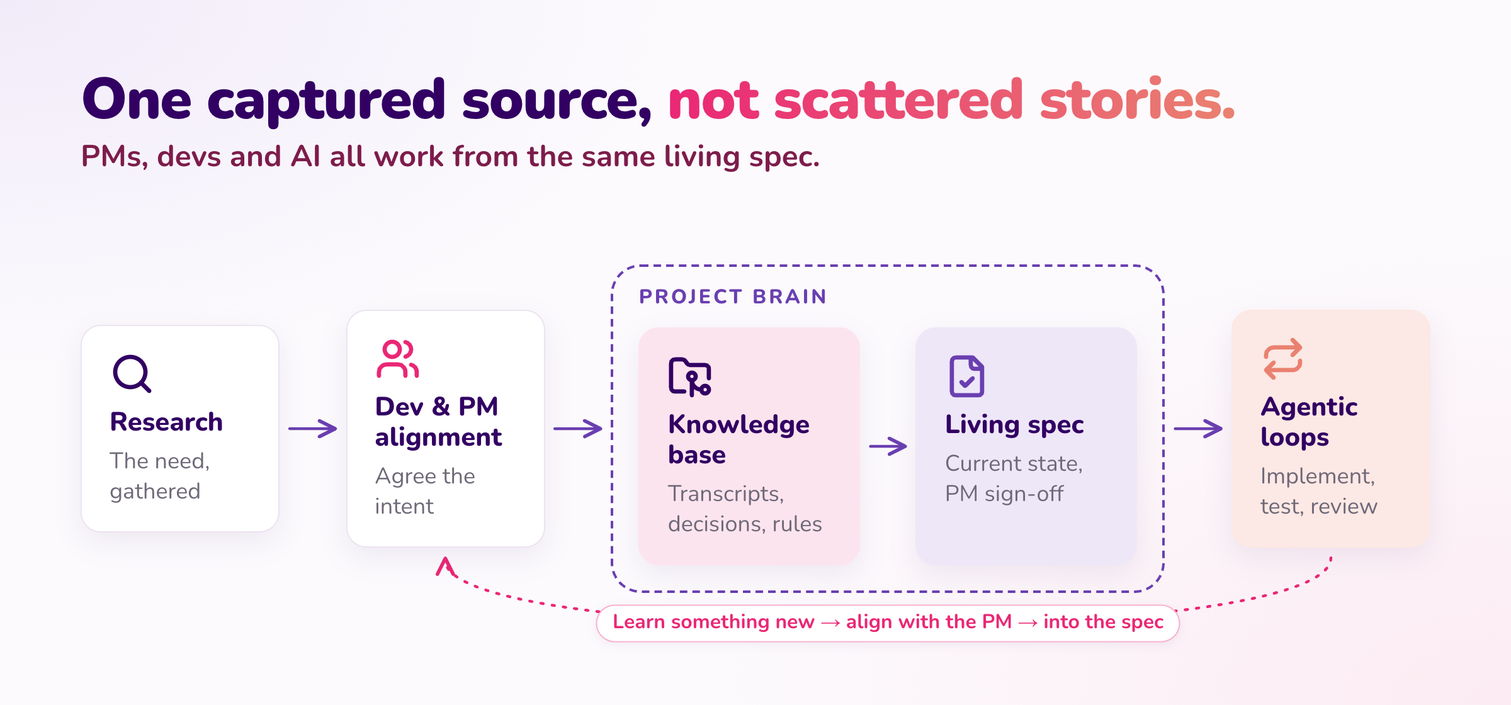
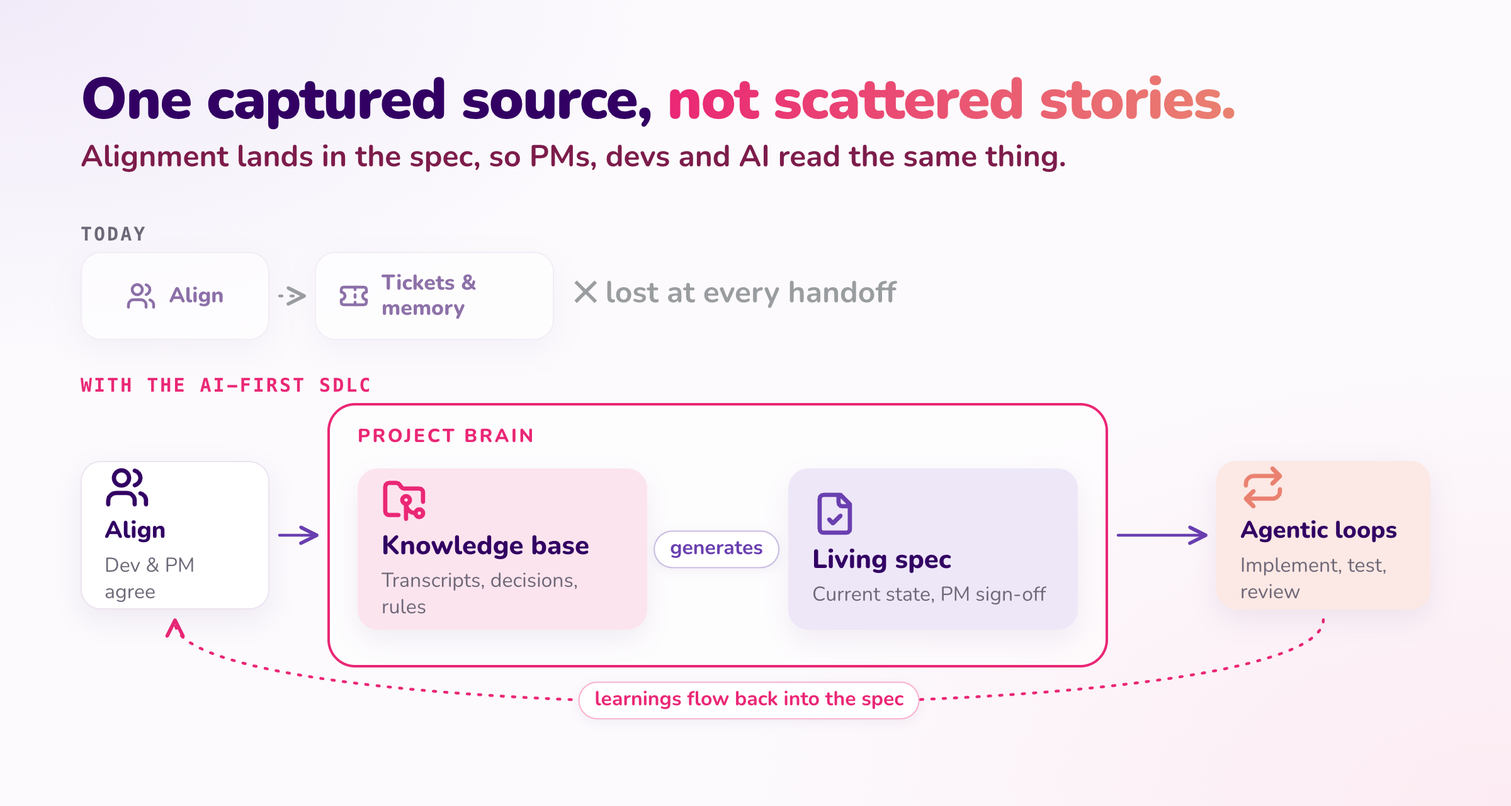
feat: sharper AI-First SDLC post and calmer selected work
Open the post with the DevTalks Cluj talk, the Fortune 500 workshops and
Tecknoworks adoption (8 of 12 teams); rename 'development' to
implementation; add current/future-state, handoff-chain and three-pillars
diagrams, and rework the captured-source and day-to-day loop diagrams;
use 'AI-First SDLC' throughout. Selected work cards drop the big numbers
for a kind label and one-line summary.

diff --git a/image-src/ai-first-sdlc/ai-sdlc-flow.html b/image-src/ai-first-sdlc/ai-sdlc-flow.html
@@ -1,22 +1,32 @@
 <!doctype html><html><head><meta charset="utf-8"><link rel="stylesheet" href="../../scripts/images/theme.css"><script src="https://cdn.jsdelivr.net/npm/lucide@0.460.0/dist/umd/lucide.min.js"></script><script src="../../scripts/images/connect.js"></script><style>
-.flow{position:absolute;left:64px;right:64px;top:210px;display:flex;align-items:center;justify-content:space-between}
-.card{display:flex;flex-direction:column;gap:8px}
-.step{width:158px}
-.brain{position:relative;padding:48px 20px 20px;display:flex;gap:44px;border:2px dashed var(--info);background:transparent}
-.brain .tag{position:absolute;top:14px;left:20px;font-size:16px;font-weight:800;letter-spacing:.12em;text-transform:uppercase;color:var(--info)}
-.brain .card{width:176px}
-</style></head><body data-size="1200x560"><div class="frame">
+.lane{position:absolute;left:64px;right:64px;display:flex;align-items:center;gap:0}
+.tag{position:absolute;left:64px;font-family:ui-monospace,Menlo,monospace;font-size:15px;font-weight:700;letter-spacing:.1em;text-transform:uppercase}
+.st{width:170px;height:118px;display:flex;flex-direction:column;justify-content:center;gap:6px;padding:16px 18px}
+.st .label{font-size:19px}
+.st .note{font-size:16px}
+.muted{opacity:.55}
+.brain{position:absolute;left:356px;top:296px;width:560px;height:210px;border:2px solid var(--accent);border-radius:22px;background:rgba(255,255,255,.55)}
+.brain .bt{position:absolute;top:14px;left:22px;font-size:15px;font-weight:800;letter-spacing:.12em;text-transform:uppercase;color:var(--accent)}
+.k{position:absolute;top:58px;width:230px;height:128px;display:flex;flex-direction:column;justify-content:center;gap:6px;padding:16px 18px}
+.k .label{font-size:21px}
+.k .note{font-size:16px}
+.x{position:absolute;font-size:24px;color:var(--gray);font-weight:700}
+</style></head><body data-size="1200x640"><div class="frame">
 <div class="title">One captured source, <span class="accent">not scattered stories.</span></div>
-<div class="subtitle">PMs, devs and AI all work from the same living spec.</div>
-<div class="flow">
- <div class="card step" id="a"><span class="icon"><i data-lucide="search"></i></span><div class="label">Research</div><div class="note">The need, gathered</div></div>
- <div class="card step" id="b"><span class="icon accent"><i data-lucide="users"></i></span><div class="label">Dev &amp; PM alignment</div><div class="note">Agree the intent</div></div>
- <div class="zone brain" id="brain"><div class="tag">Project Brain</div>
-  <div class="card tint-accent" id="c"><span class="icon"><i data-lucide="folder-git-2"></i></span><div class="label">Knowledge base</div><div class="note">Transcripts, decisions, rules</div></div>
-  <div class="card tint-info" id="d"><span class="icon info"><i data-lucide="file-check"></i></span><div class="label">Living spec</div><div class="note">Current state, PM sign-off</div></div>
- </div>
- <div class="card step tint-success" id="e"><span class="icon success"><i data-lucide="repeat"></i></span><div class="label">Agentic loops</div><div class="note">Implement, test, review</div></div>
-</div></div>
-<script>LINKS=[{from:"a",to:"b"},{from:"b",to:"brain"},{from:"c",to:"d"},{from:"brain",to:"e"},
-{from:"e",to:"b",path:"bb",dashed:true,color:"var(--accent)",drop:80,label:"Learn something new → align with the PM → into the spec"}];</script>
+<div class="subtitle">Alignment lands in the spec, so PMs, devs and AI read the same thing.</div>
+
+<div class="tag" style="top:176px;color:var(--muted)">Today</div>
+<div class="card st muted" id="t1" style="position:absolute;left:64px;top:200px;height:70px;width:150px;flex-direction:row;align-items:center;gap:10px"><span class="icon" style="width:24px;height:24px"><i data-lucide="users"></i></span><div class="label" style="font-size:17px">Align</div></div>
+<div class="card st muted" id="t2" style="position:absolute;left:250px;top:200px;height:70px;width:190px;flex-direction:row;align-items:center;gap:10px"><span class="icon" style="width:24px;height:24px"><i data-lucide="ticket"></i></span><div class="label" style="font-size:17px">Tickets &amp; memory</div></div>
+<div class="x" style="left:456px;top:216px">✕ lost at every handoff</div>
+
+<div class="tag" style="top:296px;color:var(--accent)">With the AI-First SDLC</div>
+<div class="card st" id="a" style="position:absolute;left:64px;top:366px;width:150px"><span class="icon"><i data-lucide="users"></i></span><div class="label">Align</div><div class="note">Dev &amp; PM agree</div></div>
+<div class="brain" id="brain" style="left:260px;top:320px;width:620px;height:210px"><div class="bt">Project Brain</div></div>
+<div class="card k tint-accent" id="kb" style="left:284px;top:372px"><span class="icon accent"><i data-lucide="folder-git-2"></i></span><div class="label">Knowledge base</div><div class="note">Transcripts, decisions, rules</div></div>
+<div class="card k tint-info" id="sp" style="left:626px;top:372px"><span class="icon info"><i data-lucide="file-check"></i></span><div class="label">Living spec</div><div class="note">Current state, PM sign-off</div></div>
+<div class="card st tint-success" id="loop" style="position:absolute;left:966px;top:366px;width:170px"><span class="icon success"><i data-lucide="repeat"></i></span><div class="label">Agentic loops</div><div class="note">Implement, test, review</div></div>
+</div>
+<script>LINKS=[{from:"t1",to:"t2",color:"var(--gray)",dashed:true},{from:"a",to:"brain"},{from:"kb",to:"sp",label:"generates"},{from:"brain",to:"loop"},
+{from:"loop",to:"a",path:"bb",dashed:true,drop:96,color:"var(--accent)",label:"learnings flow back into the spec"}];</script>
 </body></html>

diff --git a/image-src/ai-first-sdlc/day-to-day-loop.html b/image-src/ai-first-sdlc/day-to-day-loop.html
@@ -1,19 +1,22 @@
 <!doctype html><html><head><meta charset="utf-8"><link rel="stylesheet" href="../../scripts/images/theme.css"><script src="https://cdn.jsdelivr.net/npm/lucide@0.460.0/dist/umd/lucide.min.js"></script><script src="../../scripts/images/connect.js"></script><style>
-.steps{position:absolute;left:64px;right:64px;top:196px;display:flex;justify-content:space-between}
-.st{width:184px;display:flex;flex-direction:column;gap:10px;padding:18px 18px}
+.band{position:absolute;top:186px;height:36px;border-radius:10px;display:flex;align-items:center;padding:0 14px;font-size:15px;font-weight:800;letter-spacing:.1em;text-transform:uppercase}
+.st{position:absolute;top:236px;width:184px;height:190px;display:flex;flex-direction:column;gap:10px;padding:18px 18px}
 .st .label{font-size:20px}
-.num{width:30px;height:30px;border-radius:50%;display:grid;place-items:center;font-weight:800;font-size:16px;color:var(--surface);background:var(--c)}
+.st .note{font-size:16px}
+.num{width:30px;height:30px;border-radius:50%;display:grid;place-items:center;font-weight:800;font-size:16px;color:#fff;background:var(--c)}
 .top{display:flex;justify-content:space-between;align-items:center}
-</style></head><body data-size="1200x520"><div class="frame">
+</style></head><body data-size="1200x560"><div class="frame">
 <div class="title">The day-to-day <span class="accent">loop.</span></div>
 <div class="subtitle">All three pillars, in the order you hit them.</div>
-<div class="steps">
- <div class="card st" id="a" style="--c:var(--accent)"><div class="top"><span class="num">1</span><span class="icon accent"><i data-lucide="mail"></i></span></div><div class="label">Requirement arrives</div><div class="note">Email, ticket, call</div></div>
- <div class="card st" id="b" style="--c:var(--accent)"><div class="top"><span class="num">2</span><span class="icon accent"><i data-lucide="folder-git-2"></i></span></div><div class="label">Into the knowledge base</div><div class="note">Saved once</div></div>
- <div class="card st" id="c" style="--c:var(--info)"><div class="top"><span class="num">3</span><span class="icon info"><i data-lucide="file-pen"></i></span></div><div class="label">Update the spec</div><div class="note">AI structures it</div></div>
- <div class="card st" id="d" style="--c:var(--info)"><div class="top"><span class="num">4</span><span class="icon info"><i data-lucide="git-compare"></i></span></div><div class="label">PM reviews the diff</div><div class="note">Five minutes, not a meeting</div></div>
- <div class="card st tint-success" id="e" style="--c:var(--success)"><div class="top"><span class="num">5</span><span class="icon success"><i data-lucide="repeat"></i></span></div><div class="label">Agentic loops</div><div class="note">Implement, review, verify</div></div>
-</div></div>
+<div class="band" style="left:64px;width:404px;background:var(--accent-tint);color:var(--accent-deep)">Project Brain</div>
+<div class="band" style="left:504px;width:404px;background:var(--info-tint);color:var(--info-deep)">Living Specs</div>
+<div class="band" style="left:944px;width:192px;background:var(--success-tint);color:var(--success-deep)">Agentic Loops</div>
+<div class="card st" id="a" style="left:64px;--c:var(--accent)"><div class="top"><span class="num">1</span><span class="icon accent"><i data-lucide="mail"></i></span></div><div class="label">Requirement arrives</div><div class="note">Email, ticket, call</div></div>
+<div class="card st" id="b" style="left:284px;--c:var(--accent)"><div class="top"><span class="num">2</span><span class="icon accent"><i data-lucide="folder-git-2"></i></span></div><div class="label">Into the knowledge base</div><div class="note">The transcript, saved once</div></div>
+<div class="card st" id="c" style="left:504px;--c:var(--info)"><div class="top"><span class="num">3</span><span class="icon info"><i data-lucide="file-pen"></i></span></div><div class="label">Update the spec</div><div class="note">AI structures the raw input</div></div>
+<div class="card st" id="d" style="left:724px;--c:var(--info)"><div class="top"><span class="num">4</span><span class="icon info"><i data-lucide="git-compare"></i></span></div><div class="label">PM reviews the diff</div><div class="note">Five minutes, not a meeting</div></div>
+<div class="card st tint-success" id="e" style="left:944px;width:192px;--c:var(--success)"><div class="top"><span class="num">5</span><span class="icon success"><i data-lucide="repeat"></i></span></div><div class="label">Implement, review, verify</div><div class="note">Chained agents, against the spec</div></div>
+</div>
 <script>LINKS=[{from:"a",to:"b"},{from:"b",to:"c"},{from:"c",to:"d"},{from:"d",to:"e"},
-{from:"e",to:"a",path:"bb",dashed:true,drop:60,color:"var(--accent)",label:"…and the loop repeats, every change"}];</script>
+{from:"e",to:"a",path:"bb",dashed:true,drop:44,color:"var(--accent)",label:"every change, every time"}];</script>
 </body></html>

diff --git a/image-src/ai-first-sdlc/sprint-reclaimed.html b/image-src/ai-first-sdlc/sprint-reclaimed.html
@@ -3,15 +3,16 @@
 .r{display:grid;grid-template-columns:200px 1fr;align-items:center;gap:24px}
 .r .name{font-size:20px;font-weight:700;color:var(--title);line-height:1.15}
 .r .name small{display:block;font-size:16px;font-weight:500;color:var(--muted);margin-top:4px}
-.bar{display:flex;height:78px;border-radius:12px;overflow:hidden;border:1px solid var(--divider);background:var(--surface)}
-.seg{display:flex;flex-direction:column;justify-content:center;padding:0 12px;font-size:16px;font-weight:600;line-height:1.15;white-space:nowrap}
+.bar{display:flex;height:96px;border-radius:12px;overflow:hidden;border:1px solid var(--divider);background:var(--surface)}
+.seg{display:flex;flex-direction:column;justify-content:center;padding:0 12px;font-size:16px;font-weight:600;line-height:1.2;white-space:nowrap}
+.seg.wrap{white-space:normal}
 .seg b{font-size:23px;font-weight:800}
 .intent{background:var(--accent-tint);color:var(--accent-deep)}
 .dev{background:var(--info-tint);color:var(--info-deep)}
 .test{background:var(--plum-tint);color:var(--plum)}
 .free{background:repeating-linear-gradient(135deg,var(--surface) 0 10px,var(--canvas-alt) 10px 20px);color:var(--success);align-items:center;font-size:19px;font-weight:800}
 .free b{font-size:30px}
-</style></head><body data-size="1200x540"><div class="frame">
+</style></head><body data-size="1200x600"><div class="frame">
 <div class="eyebrow">Share of one sprint</div>
 <div class="title">Now the slice that never moved, <span class="accent">moves.</span></div>
-<div class="rows"><div class="r"><div class="name">Traditional sprint</div><div class="bar"><div class="seg intent" style="width:30%"><b>30%</b>Intent &amp; alignment</div><div class="seg dev" style="width:50%"><b>50%</b>Development</div><div class="seg test" style="width:20%"><b>20%</b>Test &amp; deploy</div></div></div><div class="r"><div class="name">AI code generation</div><div class="bar"><div class="seg intent" style="width:30%"><b>30%</b>Intent &amp; alignment</div><div class="seg dev" style="width:10%"><b>10%</b>Dev</div><div class="seg test" style="width:10%"><b>10%</b>Test</div><div class="seg free" style="width:50%"><b>50%</b>reclaimed</div></div></div><div class="r"><div class="name">Full AI-First SDLC<small>intent in the spec</small></div><div class="bar"><div class="seg intent" style="width:10%"><b>10%</b>Intent</div><div class="seg dev" style="width:10%"><b>10%</b>Dev</div><div class="seg test" style="width:10%"><b>10%</b>Test</div><div class="seg free" style="width:70%"><b>70%</b>reclaimed</div></div></div></div></div></body></html>
+<div class="rows"><div class="r"><div class="name">Traditional sprint</div><div class="bar"><div class="seg intent wrap" style="width:30%"><b>30%</b>Intent (current/future state) &amp; team alignment</div><div class="seg dev" style="width:50%"><b>50%</b>Implementation</div><div class="seg test" style="width:20%"><b>20%</b>Test &amp; deploy</div></div></div><div class="r"><div class="name">AI code generation</div><div class="bar"><div class="seg intent wrap" style="width:30%"><b>30%</b>Intent (current/future state) &amp; team alignment</div><div class="seg dev" style="width:10%"><b>10%</b>Code</div><div class="seg test" style="width:10%"><b>10%</b>Test</div><div class="seg free" style="width:50%"><b>50%</b>reclaimed</div></div></div><div class="r"><div class="name">Full AI-First SDLC<small>intent in the spec</small></div><div class="bar"><div class="seg intent" style="width:10%"><b>10%</b>Intent</div><div class="seg dev" style="width:10%"><b>10%</b>Code</div><div class="seg test" style="width:10%"><b>10%</b>Test</div><div class="seg free" style="width:70%"><b>70%</b>reclaimed</div></div></div></div></div></body></html>

diff --git a/image-src/ai-first-sdlc/sprint-today.html b/image-src/ai-first-sdlc/sprint-today.html
@@ -3,15 +3,16 @@
 .r{display:grid;grid-template-columns:200px 1fr;align-items:center;gap:24px}
 .r .name{font-size:20px;font-weight:700;color:var(--title);line-height:1.15}
 .r .name small{display:block;font-size:16px;font-weight:500;color:var(--muted);margin-top:4px}
-.bar{display:flex;height:78px;border-radius:12px;overflow:hidden;border:1px solid var(--divider);background:var(--surface)}
-.seg{display:flex;flex-direction:column;justify-content:center;padding:0 12px;font-size:16px;font-weight:600;line-height:1.15;white-space:nowrap}
+.bar{display:flex;height:96px;border-radius:12px;overflow:hidden;border:1px solid var(--divider);background:var(--surface)}
+.seg{display:flex;flex-direction:column;justify-content:center;padding:0 12px;font-size:16px;font-weight:600;line-height:1.2;white-space:nowrap}
+.seg.wrap{white-space:normal}
 .seg b{font-size:23px;font-weight:800}
 .intent{background:var(--accent-tint);color:var(--accent-deep)}
 .dev{background:var(--info-tint);color:var(--info-deep)}
 .test{background:var(--plum-tint);color:var(--plum)}
 .free{background:repeating-linear-gradient(135deg,var(--surface) 0 10px,var(--canvas-alt) 10px 20px);color:var(--success);align-items:center;font-size:19px;font-weight:800}
 .free b{font-size:30px}
-</style></head><body data-size="1200x430"><div class="frame">
+</style></head><body data-size="1200x470"><div class="frame">
 <div class="eyebrow">Share of one sprint</div>
-<div class="title">AI shrank development. <span class="accent">Not the intent.</span></div>
-<div class="rows"><div class="r"><div class="name">Traditional sprint</div><div class="bar"><div class="seg intent" style="width:30%"><b>30%</b>Intent &amp; alignment</div><div class="seg dev" style="width:50%"><b>50%</b>Development</div><div class="seg test" style="width:20%"><b>20%</b>Test &amp; deploy</div></div></div><div class="r"><div class="name">AI code generation</div><div class="bar"><div class="seg intent" style="width:30%"><b>30%</b>Intent &amp; alignment</div><div class="seg dev" style="width:10%"><b>10%</b>Dev</div><div class="seg test" style="width:10%"><b>10%</b>Test</div><div class="seg free" style="width:50%"><b>50%</b>reclaimed</div></div></div></div></div></body></html>
+<div class="title">Code got faster. <span class="accent">Intent didn't.</span></div>
+<div class="rows"><div class="r"><div class="name">Traditional sprint</div><div class="bar"><div class="seg intent wrap" style="width:30%"><b>30%</b>Intent (current/future state) &amp; team alignment</div><div class="seg dev" style="width:50%"><b>50%</b>Implementation</div><div class="seg test" style="width:20%"><b>20%</b>Test &amp; deploy</div></div></div><div class="r"><div class="name">AI code generation</div><div class="bar"><div class="seg intent wrap" style="width:30%"><b>30%</b>Intent (current/future state) &amp; team alignment</div><div class="seg dev" style="width:10%"><b>10%</b>Code</div><div class="seg test" style="width:10%"><b>10%</b>Test</div><div class="seg free" style="width:50%"><b>50%</b>reclaimed</div></div></div></div></div></body></html>

diff --git a/image-src/ai-first-sdlc/handoff-chain.html b/image-src/ai-first-sdlc/handoff-chain.html
@@ -1,0 +1,24 @@
+<!doctype html><html><head><meta charset="utf-8"><link rel="stylesheet" href="../../scripts/images/theme.css"><script src="https://cdn.jsdelivr.net/npm/lucide@0.460.0/dist/umd/lucide.min.js"></script><script src="../../scripts/images/connect.js"></script><style>
+.row{position:absolute;left:64px;right:64px;top:200px;display:flex;justify-content:space-between}
+.st{width:190px;height:178px;display:flex;flex-direction:column;align-items:center;justify-content:flex-start;gap:8px;text-align:center;padding:20px 14px}
+.num{width:30px;height:30px;border-radius:50%;display:grid;place-items:center;background:var(--canvas-alt);color:var(--muted);font-weight:800;font-size:16px}
+.st .label{font-size:19px}
+.st .note{font-size:16px}
+.warn{position:absolute;left:64px;right:64px;top:470px;display:flex;align-items:center;gap:14px;padding:18px 24px;border-radius:14px;background:var(--accent-tint);border:1px solid #f3b8cf}
+.warn .icon svg{stroke:var(--accent-deep)}
+.warn p{font-size:19px;font-weight:700;color:var(--accent-deep);line-height:1.35}
+</style></head><body data-size="1200x580"><div class="frame">
+<div class="title">Idea to shipped code, today: <span class="accent">a chain of handoffs.</span></div>
+<div class="subtitle">Context is scattered, so every person reassembles it by hand.</div>
+<div class="row">
+ <div class="card st" id="a"><span class="num">1</span><div class="label">Research</div><div class="note">PM gathers the need</div></div>
+ <div class="card st" id="b"><span class="num">2</span><div class="label">Requirements &amp; alignment</div><div class="note">Refinement, grooming, dev pushback</div></div>
+ <div class="card st" id="c"><span class="num">3</span><div class="label">Jira epics &amp; stories</div><div class="note">Re-stated as tickets</div></div>
+ <div class="card st" id="d"><span class="num">4</span><div class="label">Understand current state</div><div class="note">Re-derived from code, tickets &amp; people</div></div>
+ <div class="card st" id="e"><span class="num">5</span><div class="label">Implement</div><div class="note">Built from memory</div></div>
+</div>
+<div class="card warn"><span class="icon"><i data-lucide="triangle-alert"></i></span><p>Every handoff (every meeting, doc and ticket) is a place where context and intent leak.</p></div>
+</div>
+<script>LINKS=[{from:"a",to:"b",color:"var(--gray)"},{from:"b",to:"c",color:"var(--gray)"},{from:"c",to:"d",color:"var(--gray)"},{from:"d",to:"e",color:"var(--gray)"},
+{from:"d",to:"b",path:"bb",dashed:true,drop:40,color:"var(--accent)",label:"learn something new → go back and re-align"}];</script>
+</body></html>

diff --git a/image-src/ai-first-sdlc/three-pillars.html b/image-src/ai-first-sdlc/three-pillars.html
@@ -1,0 +1,24 @@
+<!doctype html><html><head><meta charset="utf-8"><link rel="stylesheet" href="../../scripts/images/theme.css"><script src="https://cdn.jsdelivr.net/npm/lucide@0.460.0/dist/umd/lucide.min.js"></script><script src="../../scripts/images/connect.js"></script><style>
+.cols{position:absolute;left:64px;right:64px;top:188px;display:grid;grid-template-columns:repeat(3,1fr);gap:40px}
+.p{height:360px;display:flex;flex-direction:column;gap:10px;padding:24px 24px}
+.p .num{font-family:ui-monospace,Menlo,monospace;font-size:15px;font-weight:700;letter-spacing:.1em;color:var(--c)}
+.p .icon{width:40px;height:40px}
+.p .label{font-size:24px}
+.p .note{font-size:17px;line-height:1.4}
+.p ul{list-style:none;display:flex;flex-direction:column;gap:7px;font-size:16px;color:var(--ink);margin-top:4px}
+.p li{display:flex;gap:10px}
+.p li::before{content:"";flex:none;width:7px;height:7px;border-radius:50%;background:var(--c);margin-top:8px}
+.closes{margin-top:auto;padding-top:12px;border-top:1px solid var(--divider);font-size:16px;font-weight:800;color:var(--c)}
+</style></head><body data-size="1200x600"><div class="frame">
+<div class="title">Three pillars, <span class="accent">one operating model.</span></div>
+<div class="subtitle">Each one covers what the other two can't.</div>
+<div class="cols">
+ <div class="card p" id="p1" style="--c:var(--accent)"><div class="num">01</div><span class="icon accent"><i data-lucide="folder-git-2"></i></span><div class="label">Project Brain</div><div class="note">Where the intent lives, captured once.</div>
+  <ul><li>Product specs</li><li>Transcripts &amp; decisions</li><li>Domain rules code never states</li></ul><div class="closes">Intent stops being re-derived</div></div>
+ <div class="card p tint-info" id="p2" style="--c:var(--info)"><div class="num">02</div><span class="icon info"><i data-lucide="file-check"></i></span><div class="label">Living Specs</div><div class="note">Executing against the spec, from the repo.</div>
+  <ul><li>The spec diff is the contract</li><li>PM signs off before code</li><li>Referenced, not re-written</li></ul><div class="closes">Nothing gets built off-spec</div></div>
+ <div class="card p" id="p3" style="--c:var(--success)"><div class="num">03</div><span class="icon success"><i data-lucide="repeat"></i></span><div class="label">Agentic Loops</div><div class="note">Chained agents, always against the spec.</div>
+  <ul><li>Implement the spec diff</li><li>Security &amp; code review</li><li>Verify acceptance criteria</li></ul><div class="closes">Execution stops being manual</div></div>
+</div></div>
+
+</body></html>

diff --git a/image-src/ai-first-sdlc/current-future-state.html b/image-src/ai-first-sdlc/current-future-state.html
@@ -1,0 +1,28 @@
+<!doctype html><html><head><meta charset="utf-8"><link rel="stylesheet" href="../../scripts/images/theme.css"><script src="https://cdn.jsdelivr.net/npm/lucide@0.460.0/dist/umd/lucide.min.js"></script><script src="../../scripts/images/connect.js"></script><style>
+.states{position:absolute;left:64px;right:64px;top:196px;display:grid;grid-template-columns:1fr 60px 1fr;align-items:center}
+.st{padding:26px 28px;display:flex;flex-direction:column;gap:8px}
+.st .label{font-size:26px}
+.st .note{font-size:18px}
+.mid{display:flex;justify-content:center}
+.mid .icon{width:34px;height:34px}
+.gap{position:absolute;left:64px;right:64px;top:388px;display:flex;align-items:center;gap:16px;padding:24px 28px;border-radius:16px;color:#fff;background:linear-gradient(90deg,var(--title),var(--plum) 55%,var(--accent))}
+.gap .icon{width:30px;height:30px}
+.gap .icon svg{stroke:#fff}
+.gap b{font-size:24px;font-weight:900}
+.gap span{font-size:19px;font-weight:600;opacity:.95}
+.then{position:absolute;left:64px;right:64px;top:500px;display:grid;grid-template-columns:110px 1fr;align-items:center;padding:20px 28px}
+.then .eyebrow{color:var(--accent);font-weight:800}
+.then p{font-size:19px;color:var(--muted);line-height:1.4}
+.then p b{color:var(--title);font-weight:800}
+.then p em{font-style:normal;color:var(--accent-deep);font-weight:700}
+</style></head><body data-size="1200x640"><div class="frame">
+<div class="title">Every feature is a move <span class="accent">between two states.</span></div>
+<div class="subtitle">The model needs to see both.</div>
+<div class="states">
+ <div class="card st"><div class="eyebrow">Where you are</div><div class="label">The current state</div><div class="note">How the product behaves today.</div></div>
+ <div class="mid"><span class="icon info"><i data-lucide="arrow-right"></i></span></div>
+ <div class="card st tint-info"><div class="eyebrow" style="color:var(--info)">Where you're going</div><div class="label">The future state</div><div class="note">How it should behave once this ships.</div></div>
+</div>
+<div class="gap"><span class="icon"><i data-lucide="send"></i></span><div><b>We call that gap the intent.</b> <span>What's meant to change, given the new requirements: exactly what you hand the model.</span></div></div>
+<div class="card then"><div class="eyebrow">And then</div><p><b>Almost any feature or bug can be implemented in one prompt.</b> So the job is no longer writing the code. It's <em>constructing the intent</em>, reliably, every time.</p></div>
+</div></body></html>

diff --git a/src/data/featuredWork.ts b/src/data/featuredWork.ts
@@ -1,5 +1,5 @@
-// "Selected work" on the home page: posts or case studies, each with the one
-// fact that proves it. Images go through Astro's optimizer via these imports.
+// "Selected work" on the home page: posts or case studies, each with a kind
+// label and a one-line summary. Images go through Astro's optimizer via these imports.
 import type { ImageMetadata } from "astro";
 import aiFirstSdlc from "@/assets/images/posts/ai-first-sdlc.png";
 import secondBrain from "@/assets/images/posts/second-brain-obsidian-claude-code.webp";
@@ -8,35 +8,31 @@ import painPoints from "@/assets/images/posts/pain-points-to-funded-roadmap.png"
 export type FeaturedWork = {
   href: string;
   title: string;
-  context: string;
-  metric: string;
-  metricLabel: string;
+  kind: string;
+  summary: string;
   image: ImageMetadata;
 };
 
 export const FEATURED_WORK: FeaturedWork[] = [
   {
     href: "/posts/ai-first-sdlc/",
-    title: "AI-First SDLC: Transforming Software Engineering",
-    context: "Operating model · Tecknoworks",
-    metric: "70%",
-    metricLabel: "of the sprint reclaimed",
+    title: "The AI-First SDLC",
+    kind: "Operating model",
+    summary: "The approach 8 of our 12 engineering teams now run on, presented at DevTalks Cluj.",
     image: aiFirstSdlc,
   },
   {
     href: "/case-studies/pain-points-to-funded-roadmap/",
-    title: "AI Business Transformation: From 31 Pain Points to AI in Production",
-    context: "Case study · Mid-market Irish manufacturer",
-    metric: "~80%",
-    metricLabel: "less manual finance work, in production",
+    title: "From 31 Pain Points to AI in Production",
+    kind: "Case study",
+    summary: "From 31 pain points to a funded roadmap, and roughly 80% less manual finance work in production.",
     image: painPoints,
   },
   {
     href: "/posts/second-brain-obsidian-claude-code/",
-    title: "How I Built My Second Brain with Obsidian + Claude Code",
-    context: "Personal knowledge system",
-    metric: "1 afternoon",
-    metricLabel: "from manual notes to an AI-maintained wiki",
+    title: "A Second Brain with Obsidian + Claude Code",
+    kind: "Personal system",
+    summary: "An AI-maintained knowledge base in Obsidian, with Claude Code as the structuring engine.",
     image: secondBrain,
   },
 ];

diff --git a/src/data/blog/ai-first-sdlc.md b/src/data/blog/ai-first-sdlc.md
@@ -18,21 +18,23 @@ description: "AI made writing code fast, but capturing intent is still slow. The
 
 ![AI-First SDLC — three pillars in one cycle: the Project Brain captures intent once, Living Specs are the source of truth, Agentic Loops implement, test and review, and learnings flow back into the brain](../../assets/images/posts/ai-first-sdlc.png)
 
-*Feature development stopped being about writing code. It became about managing context. This is the operating model we run on at [Tecknoworks](https://tecknoworks.com).*
+*Software engineering stopped being about writing code. It became about managing context.*
 
-If you write software today, you've already seen AI speed up development a lot. **But** it hasn't sped up *capturing the intent*, and that work isn't streamlined across the company. Every team still reconstructs what the system does, and what it should do, in its own way, one meeting at a time.
+In September I presented the AI-First SDLC at [DevTalks Cluj](https://www.devtalks.ro/cluj#speakers), and afterwards I got more requests for the slides than I expected. That's what prompted this post. It's the approach I teach in workshops for companies, a few of them Fortune 500s, and it's how we build software at [Tecknoworks](https://tecknoworks.com): of our roughly 12 software engineering teams, 8 have fully adopted it, and the rest are on the way.
 
-This post covers the SDLC we adopted to fix both problems. It speeds up development further, keeps teams and projects consistent, and leaves everyone better aligned and less frustrated. It builds on my earlier [Spec-Driven Development guide](/posts/spec-driven-development-guide/). That post covered the specs. This one covers the whole operating model around them.
+If you write software today, you've already seen AI speed up coding a lot. **But** it hasn't sped up *capturing the intent*, and that work isn't streamlined across the company. Every team still reconstructs what the system does, and what it should do, in its own way, one meeting at a time.
+
+This post covers the SDLC we adopted to fix both problems. It speeds up delivery further, keeps teams and projects consistent, and leaves everyone better aligned and less frustrated.
 
 ## Table of contents
 
-## What Has Changed: Development Collapsed
+## What Has Changed: Implementation Collapsed
 
-Take a traditional sprint. Roughly 30% of it goes to working out the intent (the current state, the future state, and getting the team aligned). Half goes to development, and the remaining 20% goes to testing, deployment and maintenance.
+Take a traditional sprint. Roughly 30% of it goes to working out the intent (the current state, the future state, and getting the team aligned). Half goes to implementation, writing and changing the code, and the remaining 20% goes to testing, deployment and maintenance.
 
-With AI-accelerated code generation, the development and testing slices shrink to about 10% each. That frees up half the sprint. **But the intent-and-alignment slice, still 30%, hasn't moved at all.**
+With AI-accelerated code generation, the implementation and testing slices shrink to about 10% each. That frees up half the sprint. **But the intent-and-alignment slice, still 30%, hasn't moved at all.**
 
-![Share of one sprint: traditional (30% intent, 50% development, 20% test) versus AI code generation (30% intent, 10% dev, 10% test, 50% reclaimed)](../../assets/images/posts/ai-first-sdlc/sprint-today.png)
+![Share of one sprint: traditional (30% intent and team alignment, 50% implementation, 20% test and deploy) versus AI code generation (30% intent, 10% code, 10% test, 50% reclaimed)](../../assets/images/posts/ai-first-sdlc/sprint-today.png)
 
 Code generation and requirements capture have to speed up *together*. If requirements stay the bottleneck, they eat into the gains from faster code. Speed up both and the gains compound, because each one reinforces the other.
 
@@ -40,12 +42,11 @@ Code generation and requirements capture have to speed up *together*. If require
 
 ### What it takes to build something new
 
-Every feature moves the product from one state to another, and the model needs to see both:
+This is the key mental model behind the whole approach. Every feature moves the product from **the current state** (how it behaves today) to **the future state** (how it should behave once this ships), and the model needs to see both.
 
-- **The current state:** how the product behaves today.
-- **The future state:** how it should behave once this ships.
+![Every feature is a move between two states: the current state and the future state. The gap between them is the intent, which is what you hand the model](../../assets/images/posts/ai-first-sdlc/current-future-state.png)
 
-We call the gap between them **the intent**: what's meant to change, given the new requirements. That's exactly what you hand the model. Almost any feature or bug can now be implemented in a single prompt. So the job is no longer writing the code. It's building the intent reliably, every time.
+We call the gap between them **the intent**: what's meant to change, given the new requirements. Almost any feature or bug can now be implemented in a single prompt. So the job is no longer writing the code. It's constructing the intent reliably, every time.
 
 ### You can't get the current state from the code
 
@@ -61,6 +62,7 @@ There's also a practical problem. Ask Claude how a feature works in a complex pr
 
 To ship anything, the AI needs the requirements currently running in production and the future state. Today that context is scattered across PMs' heads, Slack and Teams threads, Jira tickets, Confluence pages and meeting notes. So every person pieces it together by hand, meeting after meeting.
 
+![Idea to shipped code today, a chain of five handoffs: research, requirements and alignment, Jira epics and stories, understanding the current state, implementation, with a loop back whenever something new is learned](../../assets/images/posts/ai-first-sdlc/handoff-chain.png)
 
 The traditional flow goes like this. You gather requirements, write them up as stories and epics, then start exploring the current state in the codebase. There you find the requirements don't match what's actually there, or the story needs reframing to balance business value against technical debt. So you go back and forth with product or dev to sort it out.
 
@@ -92,7 +94,7 @@ Without durable, versioned, well-structured artifacts that define the intent, te
 
 ## The Approach We Adopted
 
-**AI SDLC** is a way of developing software where a machine-readable spec defines how the system behaves and serves as the single source of truth. The starting point is the same as before. The difference is that alignment now produces a durable spec instead of scattered stories.
+The **AI-First SDLC** is a way of developing software where a machine-readable spec defines how the system behaves and serves as the single source of truth. The starting point is the same as before. The difference is that alignment now produces a durable spec instead of scattered stories.
 
 ![Research, then dev and PM alignment, then the Project Brain (knowledge base generating the living spec), then agentic loops — with learnings flowing back into the spec](../../assets/images/posts/ai-first-sdlc/ai-sdlc-flow.png)
 
@@ -103,6 +105,8 @@ The key change: when you learn something new, you still align with the PM, but t
 ### Three pillars, one operating model
 
 This isn't a single technique. It's an end-to-end way of working, and each pillar covers what the others can't.
+
+![Three pillars, one operating model: Project Brain (intent captured once), Living Specs (nothing built off-spec) and Agentic Loops (execution stops being manual)](../../assets/images/posts/ai-first-sdlc/three-pillars.png)
 
 
 1. **Project Brain:** where the intent lives. It holds the product specs plus the context behind them (transcripts, emails, decisions and their reasons, domain rules the code never states), captured once. *The intent stops being re-derived.*
@@ -337,10 +341,10 @@ It starts paying off around three to six months in, when the intent outgrows wha
 
 ## So What?
 
-### Every symptom maps to one part of the AI SDLC
+### Every symptom maps to one part of the AI-First SDLC
 
 
-| Today | What fixes it | With the AI SDLC |
+| Today | What fixes it | With the AI-First SDLC |
 |---|---|---|
 | No single source of truth | Living Spec in the Project Brain | One durable, versioned source of truth |
 | Requirements archaeology | Living Spec (current state) | You read the current state instead of digging it up |
@@ -375,8 +379,7 @@ Six things we got wrong first, so you don't have to:
 
 AI has already sped up how we build. The real value now is in **how we manage context**.
 
-The AI SDLC puts the right structure in place to manage that context and keep it consistent across every team. Does that mean Claude can just take over everything? No. You still have to get your hands on it and build real understanding yourself, not hand it off blind.
+The AI-First SDLC puts the right structure in place to manage that context and keep it consistent across every team. Does that mean Claude can just take over everything? No. You still have to get your hands on it and build real understanding yourself, not hand it off blind.
 
 **Start with one project. Prove it. Then scale it.**
 
-*For the mechanics of the specs themselves (structure, what goes in and what doesn't, and the spec-manager, implementer and Jira-sync skills), see the [Spec-Driven Development guide](/posts/spec-driven-development-guide/).*
